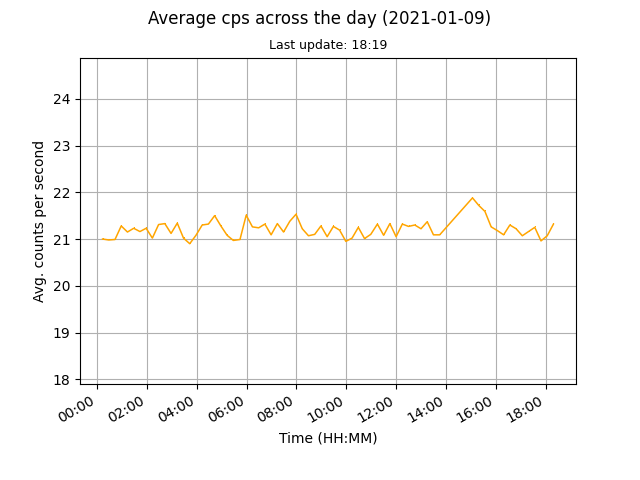
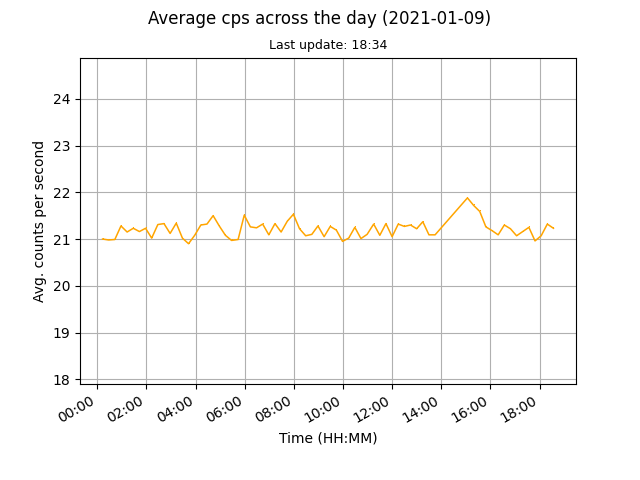
auto data update

diff --git a/docs/index.html b/docs/index.html
@@ -45,8 +45,8 @@
 	
 	<br>
 	
-	<p>Current counts per second (cps): 21.32</p>
-	<p>Last update: 2021-01-09, 18:19</p>
+	<p>Current counts per second (cps): 21.23</p>
+	<p>Last update: 2021-01-09, 18:34</p>
 
 	<p><a href="images/monthly.png"><img src="images/monthly.png" alt="Mothly avg cps data"></a><a href="images/daily.png"><img src="images/daily.png" alt="Daily avg cps data"></a></p>
 	
